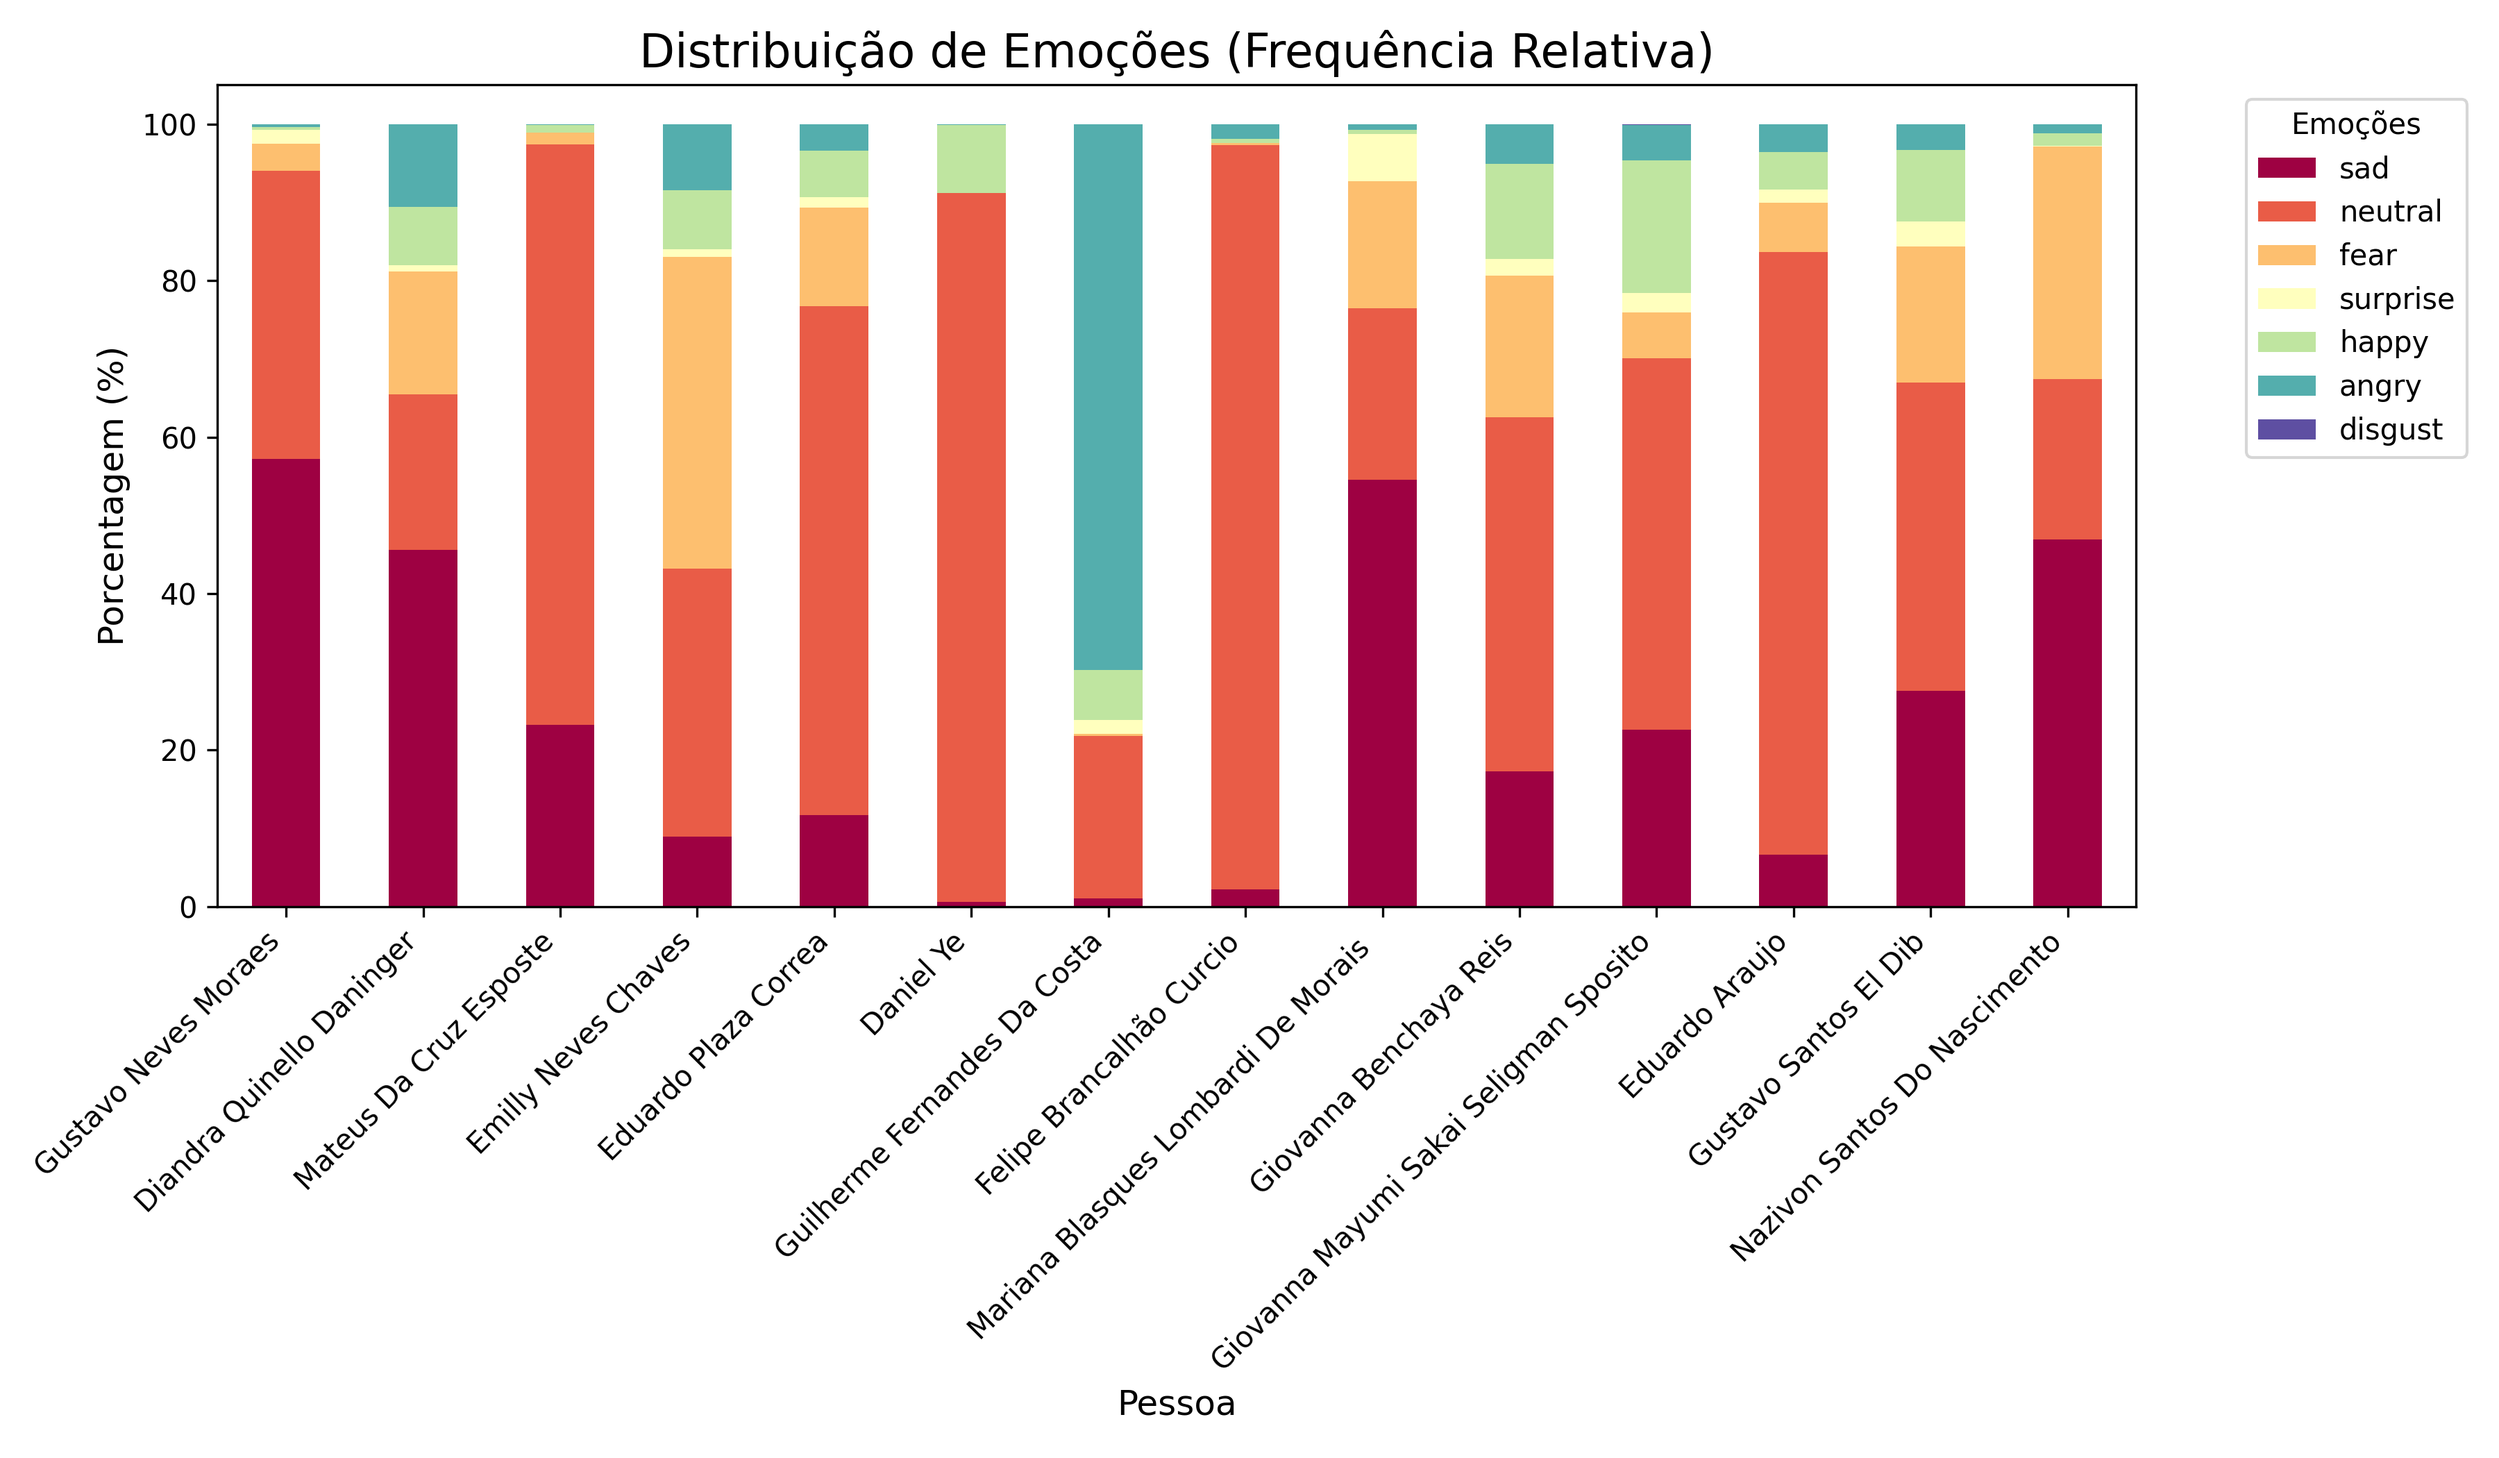
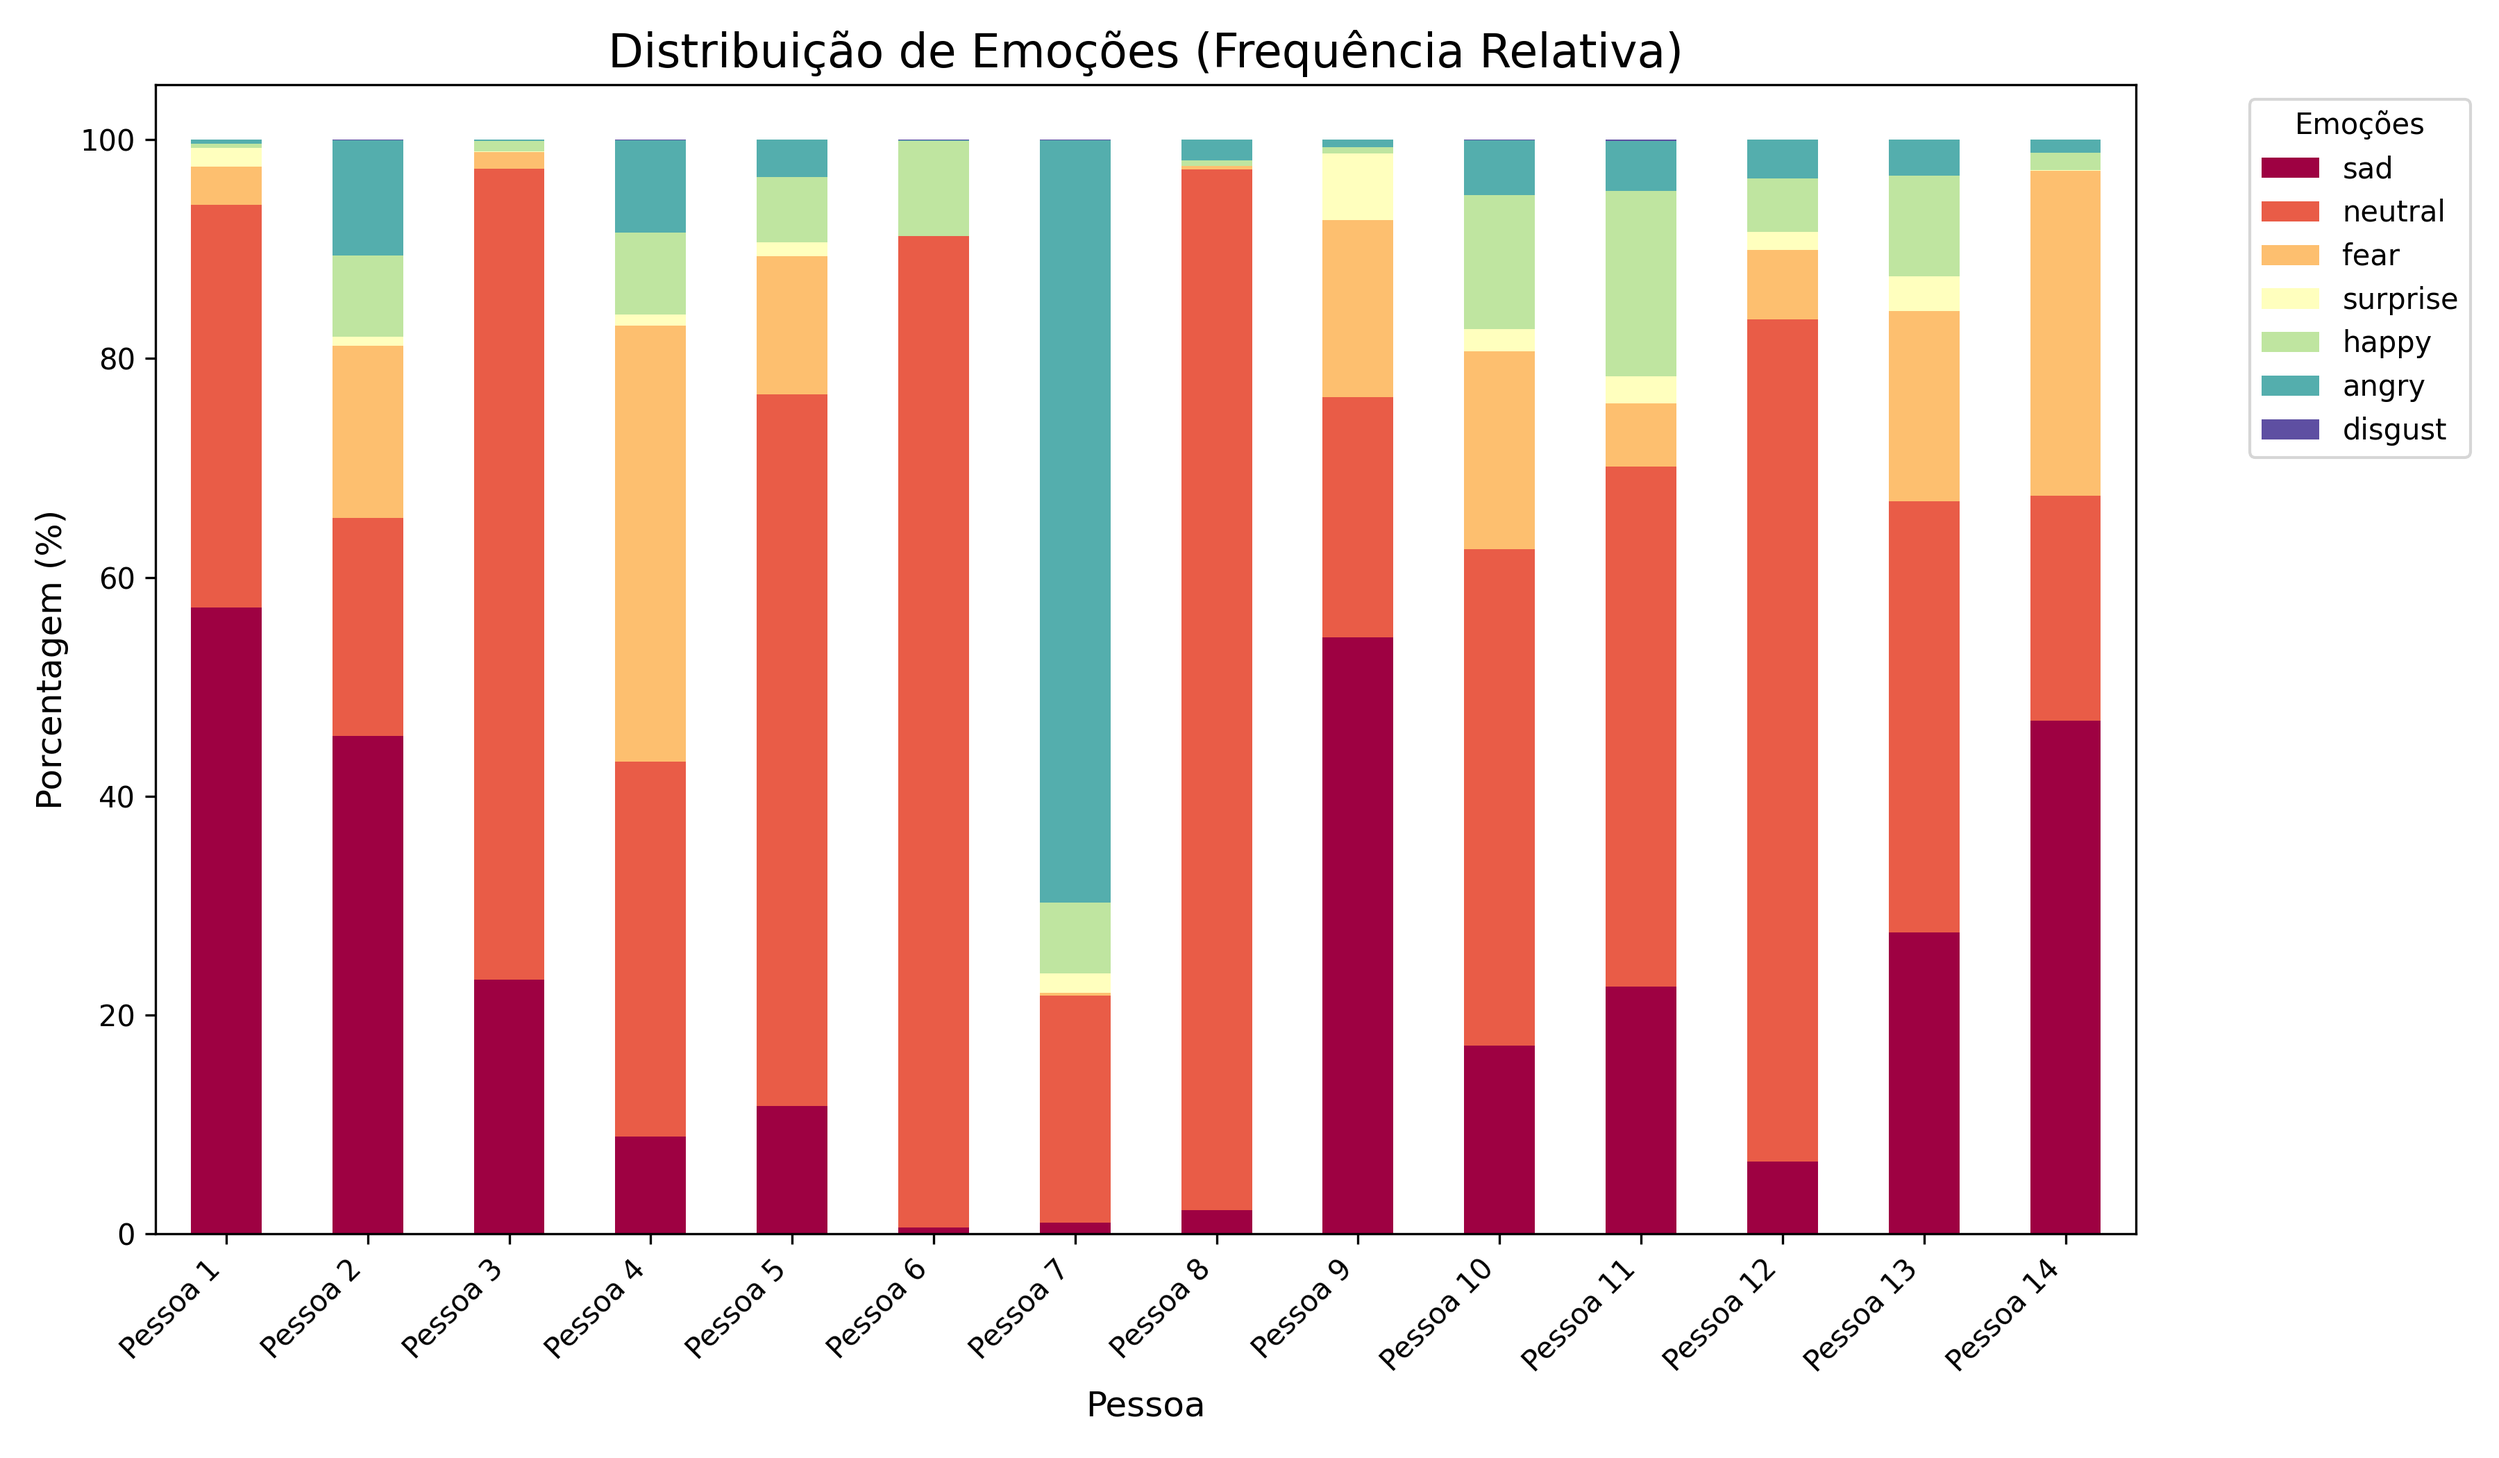
Melhorar a geração de gráficos e adicionar novos gráficos de comparação de emoções

diff --git a/teste.py b/teste.py
@@ -123,9 +123,11 @@ df_analysis["Emoção Predominante"] = np.where(
     "Negativa"
 )   
 
-plt.figure(figsize=(8, 6)) # Opcional: Define o tamanho do gráfico
-sns.boxplot()
-plt.title('Boxplot com Seaborn') # Opcional: Adiciona um título
+plt.figure(figsize=(8, 6)) 
+sns.boxplot(data=df_analysis, x='Emoção Predominante', y='PSS_Total', palette='Set2')
+plt.title('Distribuição do PSS por Grupo Emocional (Positivo vs Negativo)')
+plt.ylabel('Nível de Estresse (PSS)')
+plt.xlabel('Tipo de Emoção Predominante no Rosto')
 plt.show()
 
 

diff --git a/analise_resultados.py b/analise_resultados.py
@@ -56,6 +56,10 @@ def processar_emocoes(caminho_base):
 
     # --- GERAÇÃO DO GRÁFICO MELHORADA ---
     print("📊 Gerando gráfico...")
+
+    nomes_genericos = [f"Pessoa {i+1}" for i in range(len(df))]
+
+    df.index = nomes_genericos
     
     # Aumentei um pouco a figura para caber os nomes
     plt.figure(figsize=(14, 8)) 
